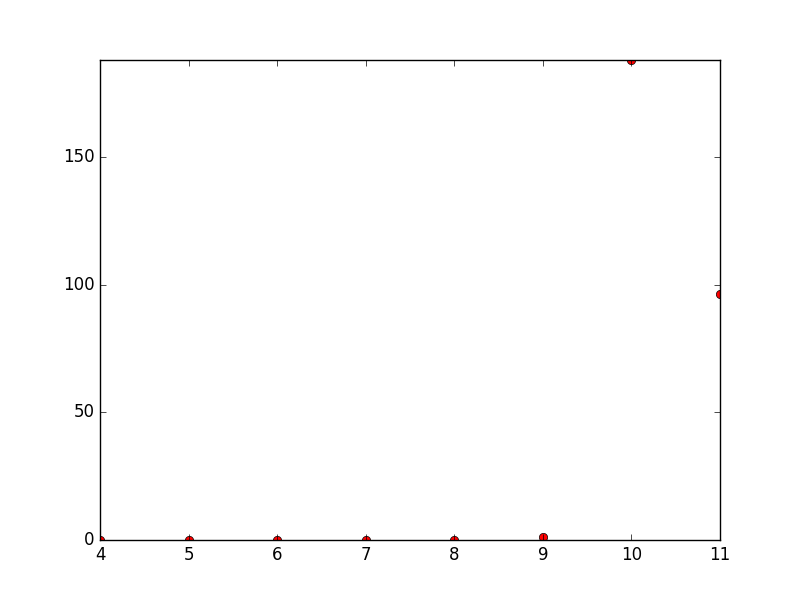
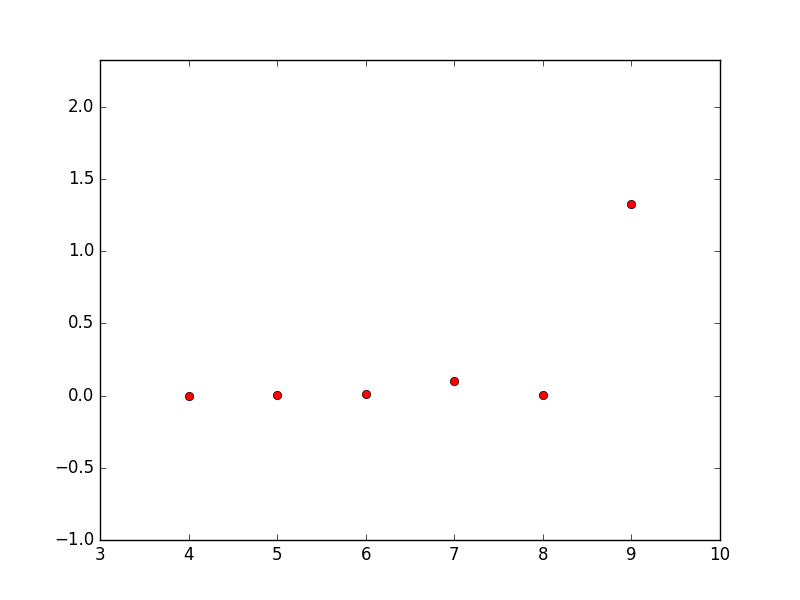
changed the traditional image

diff --git a/ASSIGNMENT_2/plotter/plot.py b/ASSIGNMENT_2/plotter/plot.py
@@ -3,7 +3,7 @@ import csv
 def plot(x,y,filename):
     fig = plt.figure()
     plt.plot(x,y,'ro')
-    plt.axis([min(x),max(x),min(y),max(y)])
+    plt.axis([min(x)-1,max(x)+1,min(y)-1,max(y)+1])
 
     fig.savefig(filename+".png")
 def getLogs(filename):
@@ -30,5 +30,5 @@ for j,x in enumerate(data):
     for s in x:
         y.append(s[0])
         z.append(s[1])
-    print(y[:-2],z[:-2])
+    print(y[:10],z[:10])
     plot(y,z,files[j])
